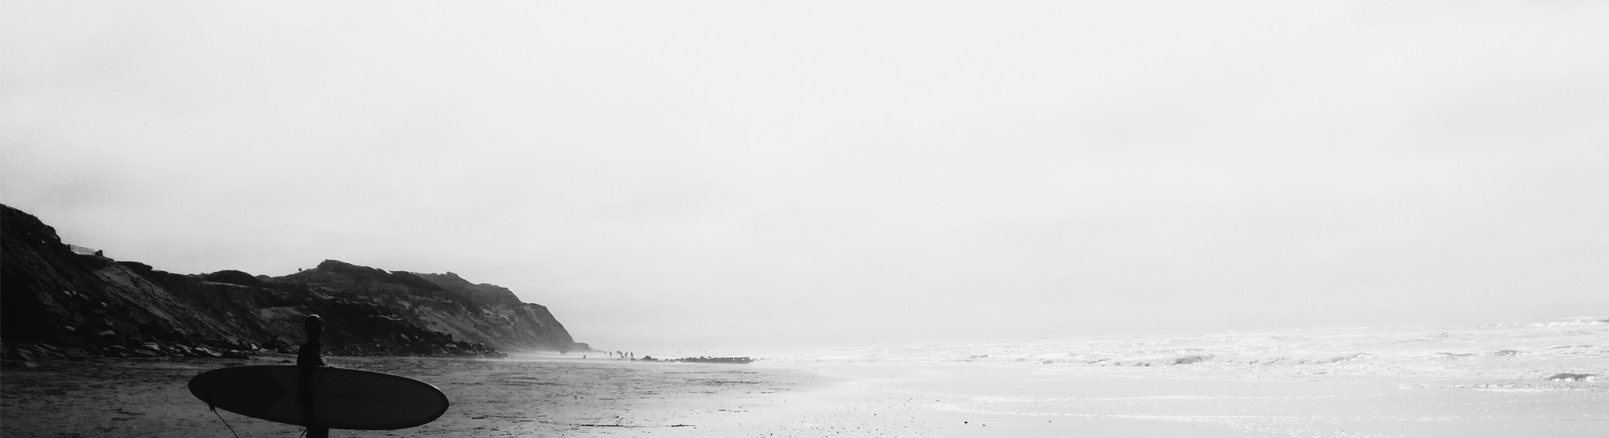
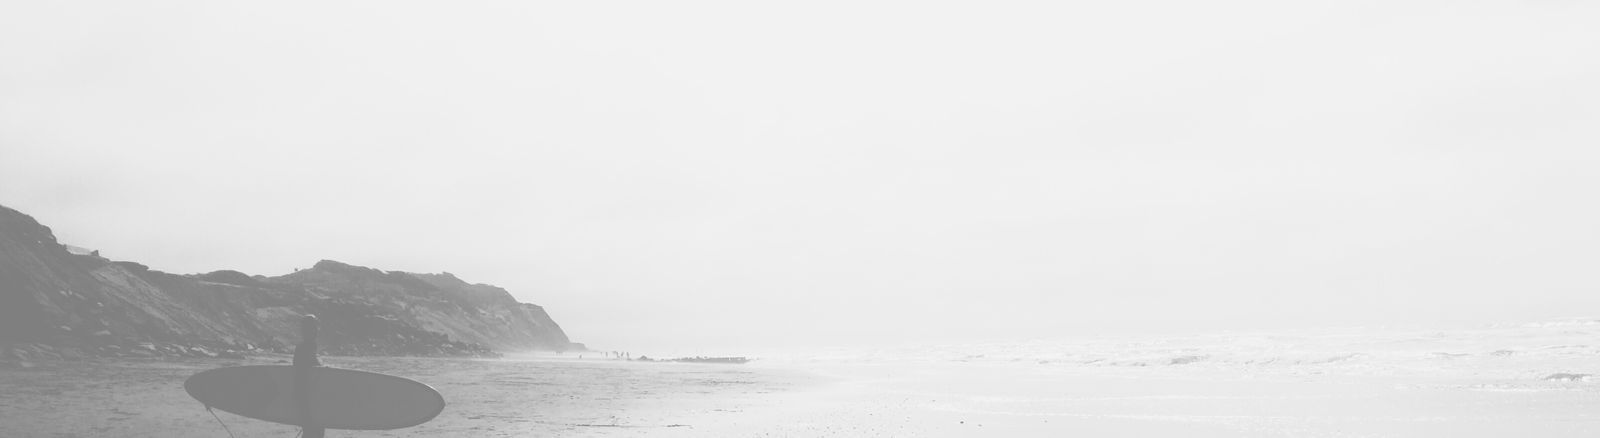
сделал форму subscribe

Changed region(s): [[0.0, 0.4155, 0.5, 1.0], [0.9375, 0.8311, 1.0, 0.8904], [0.7188, 0.8014, 0.75, 0.8311]]

diff --git a/style.css b/style.css
@@ -527,3 +527,71 @@ select {
     font-size: 14px;
     display: block;
 }
+
+.subscribe{
+    margin-top: 100px;
+    height: 438px;
+    background-image: url(img/Layer_41.png);
+    background-position: center;
+    background-repeat: no-repeat;
+    background-color: #eee;
+}
+
+.subscribe-comment{
+    flex: 1 1 auto;
+}
+
+.subscribe-line{
+    width: 1px;
+    background-color: #e3e3e3;
+}
+
+.subscribe-form{  
+    flex: 1 1 auto;  
+    font-family: 'Lato', sans-serif;
+    color: #222;
+    display: flex;
+    flex-direction: column;
+    align-items: center;
+    justify-content: center;
+    min-height: 438px;
+}
+
+.subscribe-form__h2{
+    text-transform: uppercase;
+    font-weight: 400;
+    font-size: 24px;
+    margin-top: -30px;
+}
+
+.subscribe-form__p{
+    text-transform: uppercase;
+    font-size: 14px;
+    
+}
+
+.subscribe-form__form{
+    display: flex;
+    font-size: 14px;
+    margin-top: 30px;
+}
+
+.subscribe-form__input{
+    color: #838384;
+    padding: 11px 0 11px 28px;
+    border: none;
+    border-top-left-radius: 22px;
+    border-bottom-left-radius: 22px;
+    
+}
+
+.subscribe-form__button{
+    display: flex;
+    align-items: center;
+    padding: 0 21px 0 21px;
+    background-color: #f16d7f;
+    border-top-right-radius: 22px;
+    border-bottom-right-radius: 22px;
+    text-decoration: none;
+    color: #fff;
+}

diff --git a/index.html b/index.html
@@ -280,6 +280,27 @@
         </div>
     </div>
     
+    <div class="cotainer-full subscribe">
+        <div class="container">
+            <div class="block">
+                <div class="subscribe-comment">
+                    
+                </div>
+                <div class="subscribe-line"></div>
+                <div class="subscribe-form">
+                    <h2 class="subscribe-form__h2">subscribe</h2>
+                    <p class="subscribe-form__p">for our newletter and promotion</p>
+                    <form class="subscribe-form__form" action="#">
+                        <input class="subscribe-form__input" type="text" placeholder="Enter Your Email">
+                        <a href="#" class="subscribe-form__button">Subscribe</a>
+                    </form>
+                </div>
+            </div>
+        </div>
+
+    </div>
+    
+    
     <i class="fa fa-facebook" aria-hidden="true"></i>
     <i class="fa fa-twitter" aria-hidden="true"></i>
     <i class="fa fa-linkedin" aria-hidden="true"></i>   
